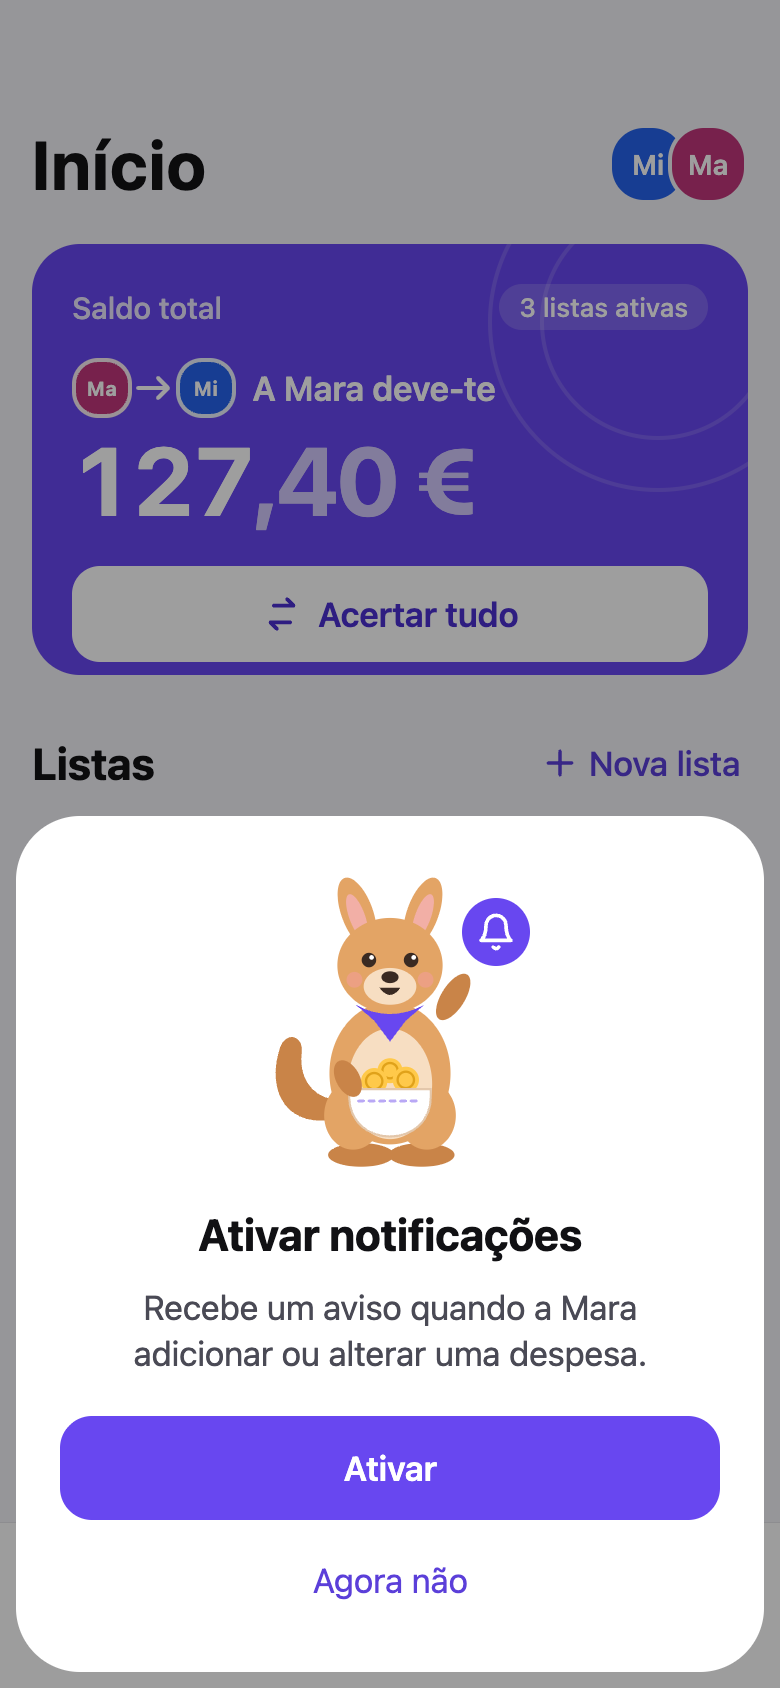
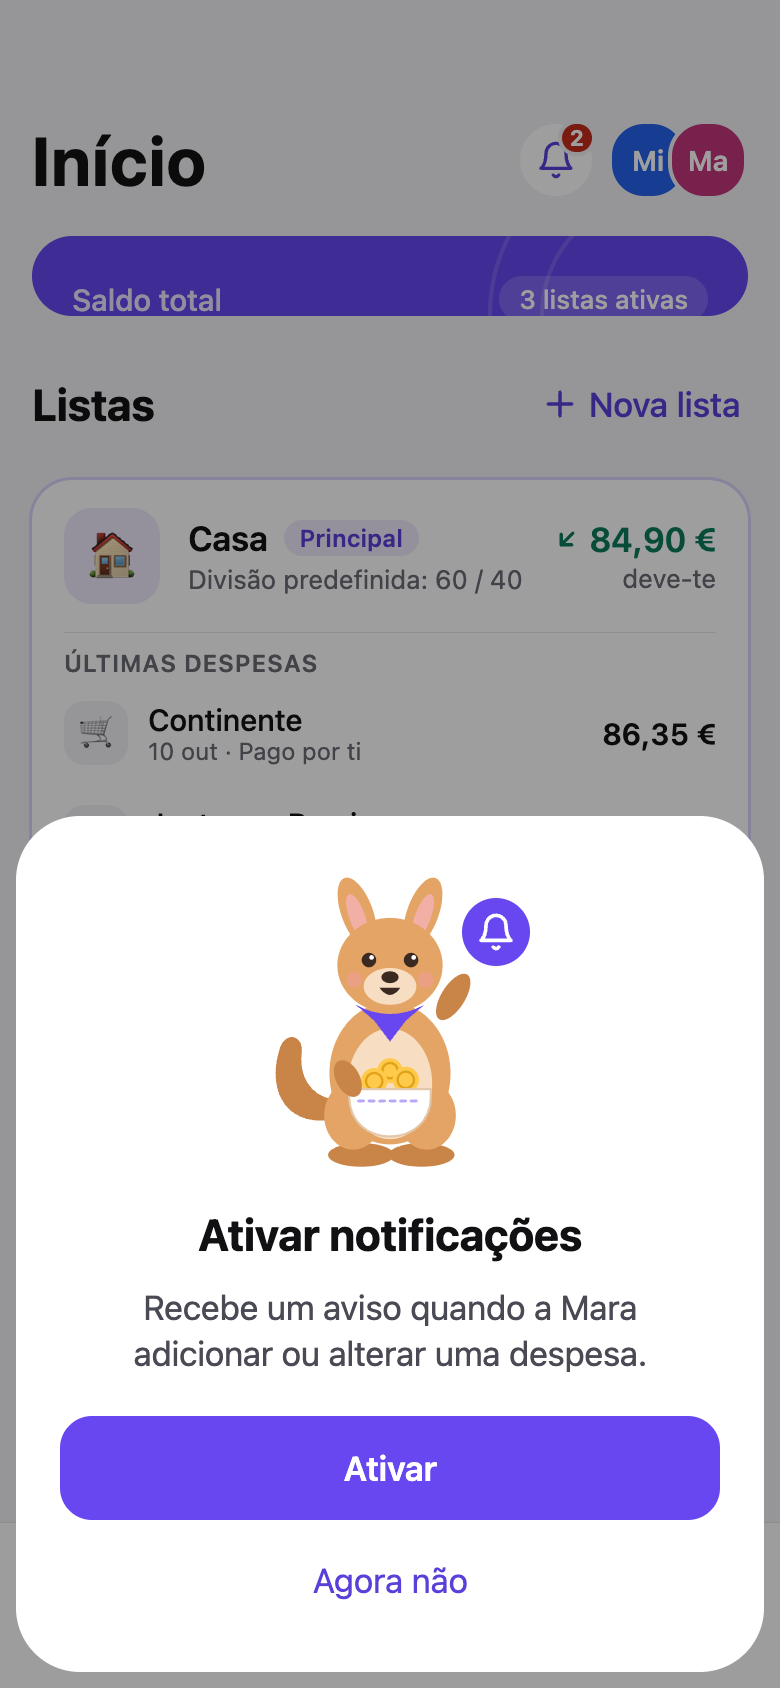
Update design: last expenses on the Casa card, refreshed screenshots

diff --git a/design/screens/Main.dc.html b/design/screens/Main.dc.html
@@ -99,7 +99,8 @@ body{margin:0}
 
     <sc-if value="{{notLoading}}" hint-placeholder-val="{{ true }}">
       <div style="display: flex; flex-direction: column; gap: 12px">
-        <a href="Lista.dc.html" style="text-decoration: none; color: inherit; border-radius: 20px; background: {{c.card}}; padding: 14px 16px; display: flex; align-items: center; gap: 14px; box-shadow: {{c.shadow}}; outline: 1.5px solid {{c.mainRing}}">
+        <div style="border-radius: 20px; background: {{c.card}}; box-shadow: {{c.shadow}}; outline: 1.5px solid {{c.mainRing}}; overflow: hidden">
+        <a href="Lista.dc.html" style="text-decoration: none; color: inherit; padding: 14px 16px; display: flex; align-items: center; gap: 14px">
           <span style="width: 48px; height: 48px; border-radius: 14px; background: {{c.accentSoft}}; display: flex; align-items: center; justify-content: center; font-size: 24px">🏠</span>
           <span style="flex: 1; min-width: 0; display: flex; flex-direction: column; gap: 3px">
             <span style="display: flex; align-items: center; gap: 8px">
@@ -116,6 +117,22 @@ body{margin:0}
             <span style="font-size: 13px; color: {{c.text2}}">deve-te</span>
           </span>
         </a>
+        <div style="margin: 0 16px; border-top: 0.5px solid {{c.sep}}; padding: 8px 0 2px; font-size: 12px; font-weight: 600; color: {{c.text2}}; text-transform: uppercase; letter-spacing: 0.4px">Últimas despesas</div>
+        <sc-for list="{{recent}}" as="r" hint-placeholder-count="3">
+          <a href="DespesaDetalhe.dc.html" style="text-decoration: none; color: inherit; min-height: 44px; padding: 4px 16px; display: flex; align-items: center; gap: 10px">
+            <span aria-hidden="true" style="width: 32px; height: 32px; border-radius: 10px; background: {{c.fill}}; display: flex; align-items: center; justify-content: center; font-size: 16px; flex: none">{{r.icon}}</span>
+            <span style="flex: 1; min-width: 0; display: flex; flex-direction: column">
+              <span style="font-size: 15px; font-weight: 500; white-space: nowrap; overflow: hidden; text-overflow: ellipsis">{{r.desc}}</span>
+              <span style="font-size: 12px; color: {{c.text2}}">{{r.sub}}</span>
+            </span>
+            <span style="font-size: 15px; font-weight: 600; font-variant-numeric: tabular-nums">{{r.amount}}</span>
+          </a>
+        </sc-for>
+        <a href="Lista.dc.html" style="margin: 2px 16px 0; border-top: 0.5px solid {{c.sep}}; height: 44px; display: flex; align-items: center; justify-content: space-between; color: {{c.link}}; text-decoration: none; font-size: 15px; font-weight: 500">
+          Ver todas
+          <svg width="14" height="14" viewBox="0 0 24 24" fill="none" stroke="currentColor" stroke-width="2.5" stroke-linecap="round" stroke-linejoin="round" aria-hidden="true"><path d="m9 6 6 6-6 6"></path></svg>
+        </a>
+        </div>
 
         <div style="border-radius: 20px; background: {{c.card}}; box-shadow: {{c.shadow}}; overflow: hidden">
           <sc-for list="{{lists}}" as="l" hint-placeholder-count="2">
@@ -174,8 +191,14 @@ class Component extends DCLogic {
       { icon: '✈', name: 'Férias Açores', sub: '02/08 – 12/08/2026', amount: '62,50 €', dir: 'deve-te', color: c.pos, arrow: down, tile: dark ? '#13283F' : '#E6F0FF', border: 'none' },
       { icon: '🎁', name: 'Prenda da mãe', sub: 'Divisão predefinida: 50 / 50', amount: '20,00 €', dir: 'deves', color: c.neg, arrow: up, tile: dark ? '#3A2216' : '#FFEFE5', border: '0.5px solid ' + c.sep }
     ];
+    c.fill = dark ? '#2C2C2E' : '#F2F2F7';
+    const recent = [
+      { icon: '🛒', desc: 'Continente', sub: '10 out · Pago por ti', amount: '86,35 €' },
+      { icon: '🍽', desc: 'Jantar no Ramiro', sub: '08 out · Pago pela Mara', amount: '74,00 €' },
+      { icon: '💡', desc: 'Eletricidade', sub: '05 out · Pago por ti', amount: '61,20 €' }
+    ];
     return {
-      c, dark, offline, loading, notLoading: !loading, lists,
+      c, dark, offline, loading, notLoading: !loading, lists, recent,
       skeletons: [{ w: '55%' }, { w: '70%' }, { w: '45%' }]
     };
   }

diff --git a/design/README.md b/design/README.md
@@ -206,6 +206,14 @@ Title + list filter ("Todas as listas") · month selector · "Total do mês" ove
 - No "add expense" shortcut in the day details.
 - Each day cell has a full `aria-label`, e.g. "Segunda, 5 de outubro, 101,20 €" (+ "(hoje)", "despesa recorrente prevista", "acerto de contas").
 
+## Início — last expenses on the Casa card
+
+- The Casa card on Início shows the **last 3 expenses** of the Casa list, newest first, under the label "Últimas despesas".
+- Each row shows the category emoji, the description, "date · Pago por ti / pela Mara" and the amount. Settlements are not shown.
+- Tap a row to open the expense detail (`DespesaDetalhe`).
+- Tap the card header (name, split, balance) or "Ver todas" to open the Casa list (`Lista`). The header has no chevron.
+- If the list has fewer than 3 expenses, show only the ones that exist. If it has none, hide the label and the "Ver todas" link.
+
 ## Not shown in the mockups
 
 - Category editor sub-screen (add / edit / archive a category). Follow the `NovaLista` sheet pattern.
